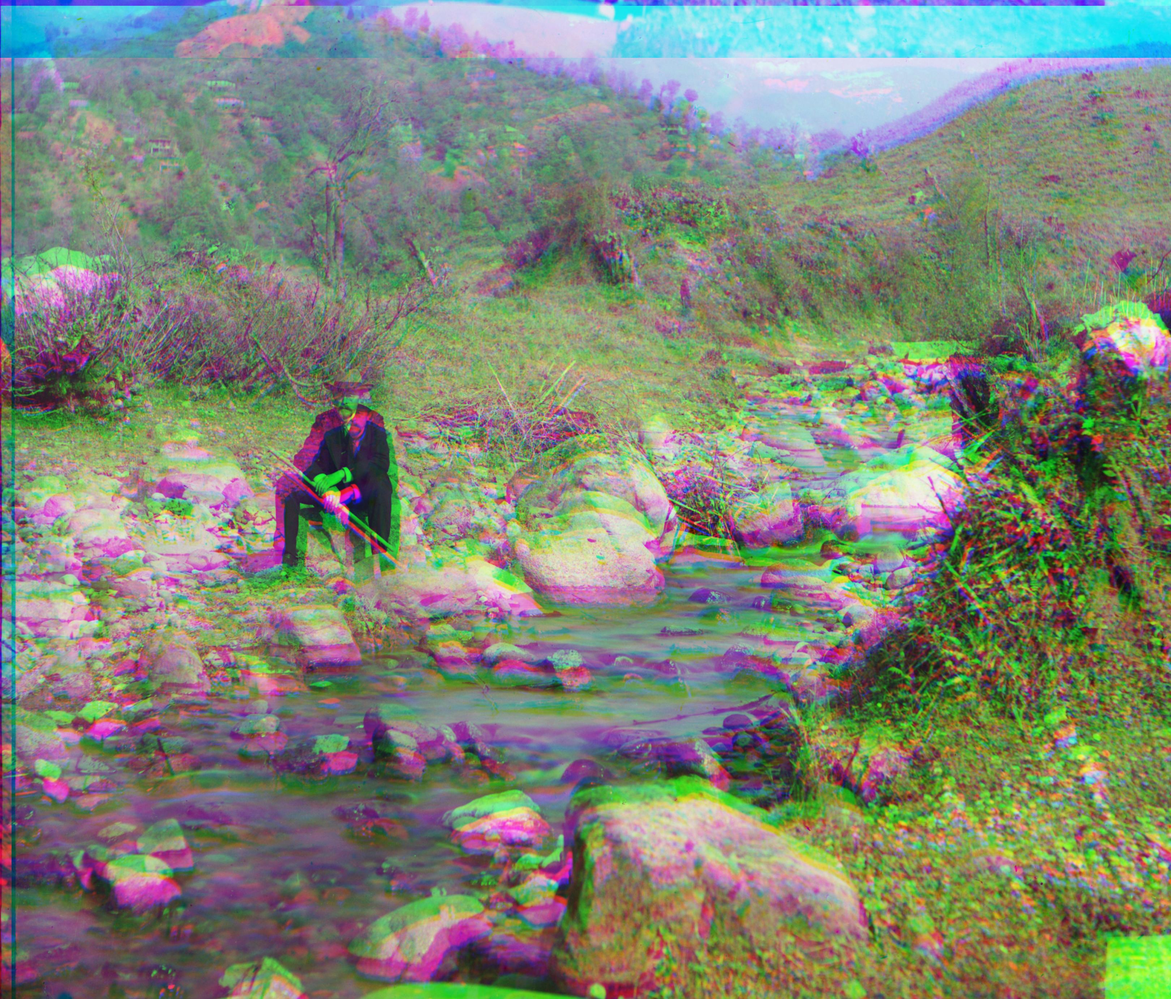
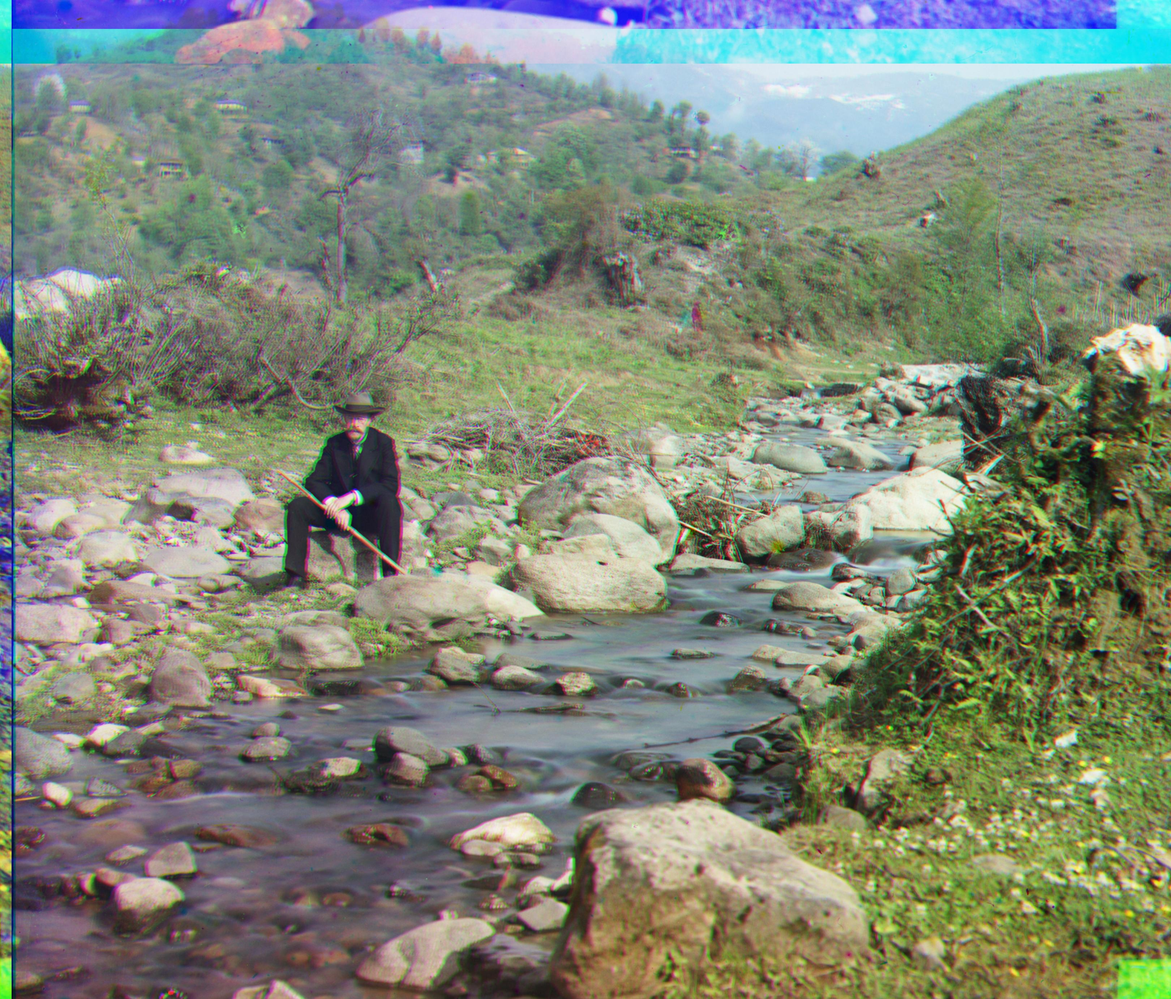
Push updated page

diff --git a/cs180/1/index.html b/cs180/1/index.html
@@ -225,6 +225,12 @@
                 <p>Red Offset: (+32, +96)</p>
                 <p>Green Offset: (+32, +32)</p>
               </td>
+              <td>
+                <img src="./media/church_aligned.jpg" />
+                <h5> Church </h5>
+                <p>Red Offset: (+0, +64)</p>
+                <p>Green Offset: (+0, +32)</p>
+              </td>
             </tr>
             <tr>
               <td>
@@ -267,13 +273,91 @@
         </table>
 
         We see the best results in the picture with the melons, with the only evidence alignment coming from the border from the top. The second best comes in the statue, which does 
-        have a little bit of noticable color jitter and that yet-too-annoying band of red residue, but aligned for the majority. For the top two, the color jitter is hard not to notice - while the alignment seems to be 
-        performing, we can see evidence that these images were spliced together, particularly at the edges - check out the white top of the emir as an example to see what I'm referring to.
+        have a little bit of noticable color jitter and that yet-too-annoying band of red residue, but aligned for the majority. However, the issue of the "color band" at the top still remains. 
+        While I attempted to remove this color band, I was unsuccessful in trying to patch it. Professor Efros, after lecture, recommended to try correlating the three channels in this area - one thing that I was
+        interested in trying, but not too sure how to implement.
+    </div>
+    <div>
+      <h2> Custom Image Bonanza </h2>
+
+        <table>
+          <tr>
+            <td>
+              <img src="./media/siren_aligned.jpg" />
+              <p>Sirenʹ v Gatchinskom parki︠e︡</p>
+              <p> Red Offset: (+32, +64) </p>
+              <p> Green Offset: (+32, +32) </p>
+            </td>
+            <td>
+              <img src="./media/etrus_aligned.jpg" />
+              <p>Ėtrusskīi︠a︡ vazy. V Ėrmitazhi︠e︡ v SPeterburgi︠e︡</p>              
+              <p> Red Offset: (+0, +96) </p>
+              <p> Green Offset: (+0, +0) </p>
+            </td>
+          </tr>
+        </table>
+
     </div>
 
     <div>
-        <h1> Bells and Whistles </h1>
-        To implement if I had some time.
+        <h2> Bells and Whistles </h2>
+
+        <h3> Minor improvements with Major Results - Resolution Bashing </h3>
+        Initially, some of the images still turned out to be misaligned. I accidentally stumbled upon the fact that changing the resolution at which I do exhaustive displacement search from (128, 128)
+        to (512, 512) - a larger resolution - improved results with negligible runtime downsides. However, when I did this, the melons image drastically dropped in alignment performance. In order to get the best of both worlds, 
+        I ran a grid search through 3 resolutions - (128, 128), (256, 256), and (512, 512), and chose the image with the best average (across green and red) metric value.
+
+        <h2> Metric Composition </h2>
+
+        The final metric ended up being a weighted average aggregation of the Normalized Cross Correlation (on the image) and the Structural Similarity Image Metric (SSIM). 
+
+        While I attempted to integrate in gradient based methods, such as computing gradients from an image passed through the Sobel filter, those didn't end up going very far, as they regularly 
+        killed alignment. Here's an example of how the emir alignment might look with a weighted average of the three. 
+
+        <h3> Gradient Based Metric Result for Emir </h3>
+        <table>
+          <tr>
+            <td>
+              <img src="./media/emir_aligned.jpg" />
+              <p> Before (with only NCC) </p>
+            </td>
+            <td>
+              <img src="./media/emir_gradient.jpg" />
+              <p> After (with Sobel gradients) </p>
+            </td>
+          </tr>
+          <tr>
+            <td>
+              <img src="./media/church_aligned.jpg" />
+              <p> Before (with only NCC) </p>
+            </td>
+            <td>
+              <img src="./media/church_gradient.jpg" />
+              <p> After (with Sobel gradients) </p>
+            </td>
+          </tr>
+        </table>
+
+          Notice the color jitter now showing? That was the issue issue with the sobel gradients. In retrospect, I noticed that this issue happened specifically with the Emir and for the SSIM and Sobel Edge Gradient method, so neither one really helped or hurted.
+          It would be interesting to see if there is a way to precisely determine criterion for solely using NCC vs a combination with NCC + Sobel/SSIM (below).
+
+
+        <h3> SSIM Based for Emir </h3>
+        <table>
+          <tr>
+            <td>
+              <img src="./media/emir_aligned.jpg" />
+              <p> Before (with only NCC) </p>
+            </td>
+            <td>
+              <img src="./media/emir_ssim.jpg" />
+              <p> After (with SSIM ) </p>
+            </td>
+          </tr>
+        </table>
+
+        A similar story pops up with the SSIM - minor misalignment. I suspect that a weighted combination of the two would probably be the best, with the unverified hope that SSIM would be able to pick up feature 
+        based alignment that the NCC wouldn't be able to. Then again, we could always grab a large Halloween bag of images and try the Frechet Inception Distance FID ... why not bring a bazooka to a knife fight? 
     </div>
         
     
